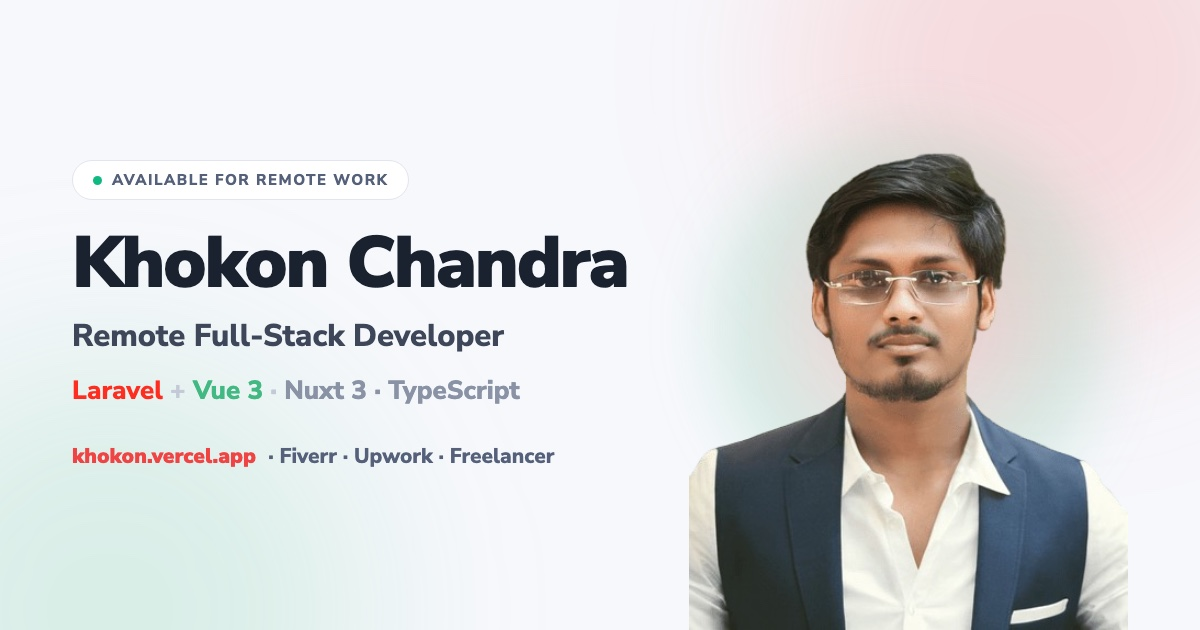
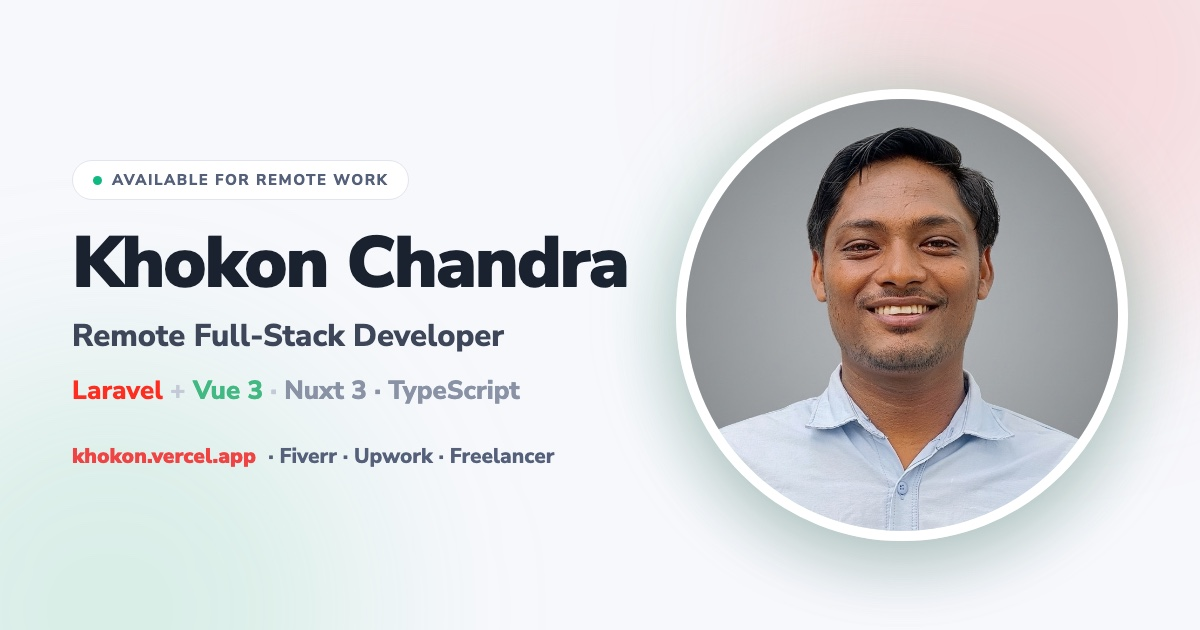
Use the new profile photo across the site and the share card
Replaces the GitHub avatar and the old hero.png cutout with the new headshot.

- Add public/khokon-chandra.jpg (800x800, 138KB, down from 615KB at 1024px).
  The hero renders it at 320px CSS, so 800px still covers 2x displays.
- data/profile.ts points at the local file instead of
  avatars.githubusercontent.com, so the hero, the JSON-LD and the share card
  all use one image; the JSON-LD refs are now absolute URLs as crawlers need.
- Rebuild public/og-image.jpg from the new photo. It is a square headshot on a
  grey background rather than a transparent cutout, so the card switched from
  a bottom-anchored cutout to a circular crop with a white ring, matching the
  hero avatar. Still 1200x630, 125KB.
- tools/og-card.html updated to match, so the card stays reproducible.

Verified in the build: hero, JSON-LD and og:image all resolve to the new
files, and no reference to avatars.githubusercontent.com remains.

Changed region(s): [[0.5242, 0.1206, 0.9558, 1.0]]

diff --git a/tools/og-card.html b/tools/og-card.html
@@ -28,7 +28,7 @@
   .w1{width:520px;height:520px;top:-190px;right:-110px;background:rgba(239,68,68,.16)}
   .w2{width:520px;height:520px;bottom:-240px;left:-150px;background:rgba(66,184,131,.16)}
   .inner{position:relative;display:flex;align-items:center;justify-content:space-between;
-    width:100%;height:630px;padding:0 72px;gap:40px}
+    width:100%;height:630px;padding:0 72px;gap:44px}
   .badge{display:inline-flex;align-items:center;gap:10px;border:1px solid #e2e5ee;background:#fff;
     border-radius:9999px;padding:9px 20px;font-size:15px;font-weight:800;letter-spacing:.1em;
     text-transform:uppercase;color:#55617a}
@@ -39,12 +39,14 @@
   .laravel{color:#FF2D20}.vue{color:#42B883}.plus{color:#c3c9d6}
   .url{margin-top:34px;display:inline-flex;align-items:center;gap:12px;font-size:21px;font-weight:800;color:#55617a}
   .url b{color:#ef4444;font-weight:900}
-  .photo{position:relative;flex:0 0 auto;width:439px;height:540px;align-self:flex-end}
-  .halo{position:absolute;left:50%;top:44%;transform:translate(-50%,-50%);
-    width:440px;height:440px;border-radius:9999px;
-    background:radial-gradient(circle,rgba(239,68,68,.22),rgba(66,184,131,.18) 55%,transparent 72%);
-    filter:blur(26px)}
-  .photo img{position:relative;width:439px;height:540px;object-fit:contain;object-position:bottom;display:block}
+  .photo{position:relative;flex:0 0 auto;width:452px;height:452px}
+  .halo{position:absolute;left:50%;top:50%;transform:translate(-50%,-50%);
+    width:520px;height:520px;border-radius:9999px;
+    background:radial-gradient(circle,rgba(239,68,68,.28),rgba(66,184,131,.22) 58%,transparent 74%);
+    filter:blur(30px)}
+  .photo img{position:relative;width:452px;height:452px;border-radius:9999px;object-fit:cover;
+    object-position:center 22%;display:block;border:10px solid #fff;
+    box-shadow:0 26px 64px rgba(26,34,48,.20)}
 </style></head>
 <body>
   <div class="wash"><i class="w1"></i><i class="w2"></i></div>
@@ -61,7 +63,7 @@
     </div>
     <div class="photo">
       <div class="halo"></div>
-      <img src="../public/hero.png" alt="">
+      <img src="../public/khokon-chandra.jpg" alt="">
     </div>
   </div>
 </body></html>

diff --git a/app.vue b/app.vue
@@ -26,7 +26,7 @@ useHead({
         '@type': 'Person',
         name: profile.name,
         url: profile.site,
-        image: profile.avatar,
+        image: `${profile.site}${profile.avatar}`,
         email: `mailto:${profile.email}`,
         jobTitle: `Remote ${profile.role}`,
         description: profile.summary,
@@ -58,7 +58,7 @@ useHead({
         '@type': 'ProfessionalService',
         name: `${profile.name} — Freelance Web Development`,
         url: `${profile.site}/#Hire`,
-        image: profile.avatar,
+        image: `${profile.site}${profile.avatar}`,
         description:
           'Freelance Laravel, PHP, Vue 3 and Nuxt 3 development — REST APIs, multi-tenant applications, database performance work and CI/CD setup.',
         provider: { '@type': 'Person', name: profile.name, url: profile.site },

diff --git a/data/profile.ts b/data/profile.ts
@@ -12,7 +12,8 @@ export const profile = {
   location: 'Dhaka, Bangladesh',
   timezone: 'UTC+6',
   overlap: '4–6 h daily overlap with CET / 3+ h with EST',
-  avatar: 'https://avatars.githubusercontent.com/u/58368293?v=4',
+  // Self-hosted so the share card, the hero and the JSON-LD all agree.
+  avatar: '/khokon-chandra.jpg',
   site: 'https://khokon.vercel.app',
 
   /** Set to false when you stop taking new client work. */
